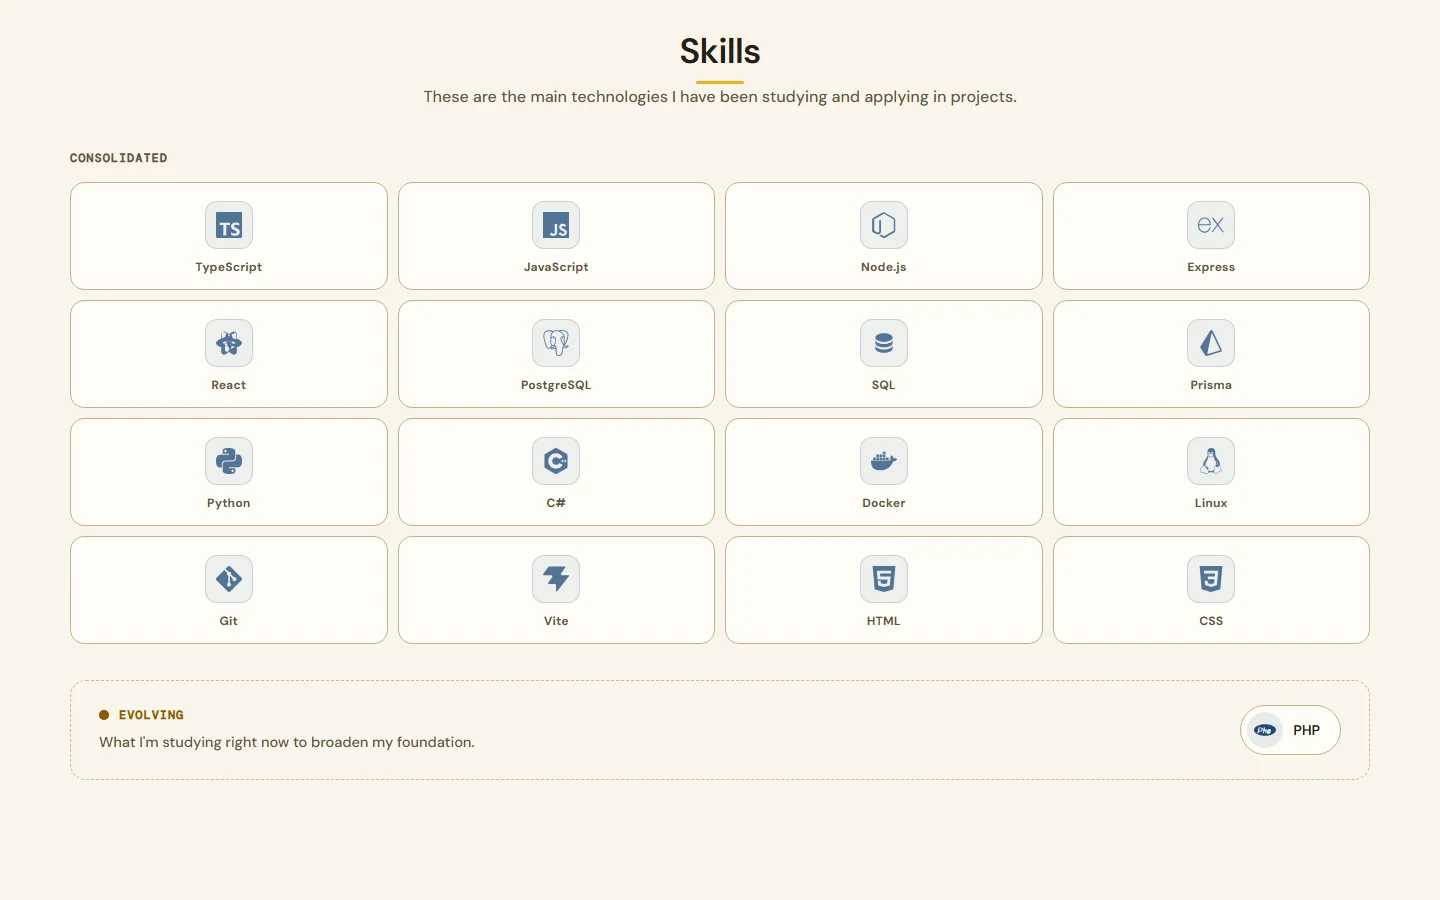
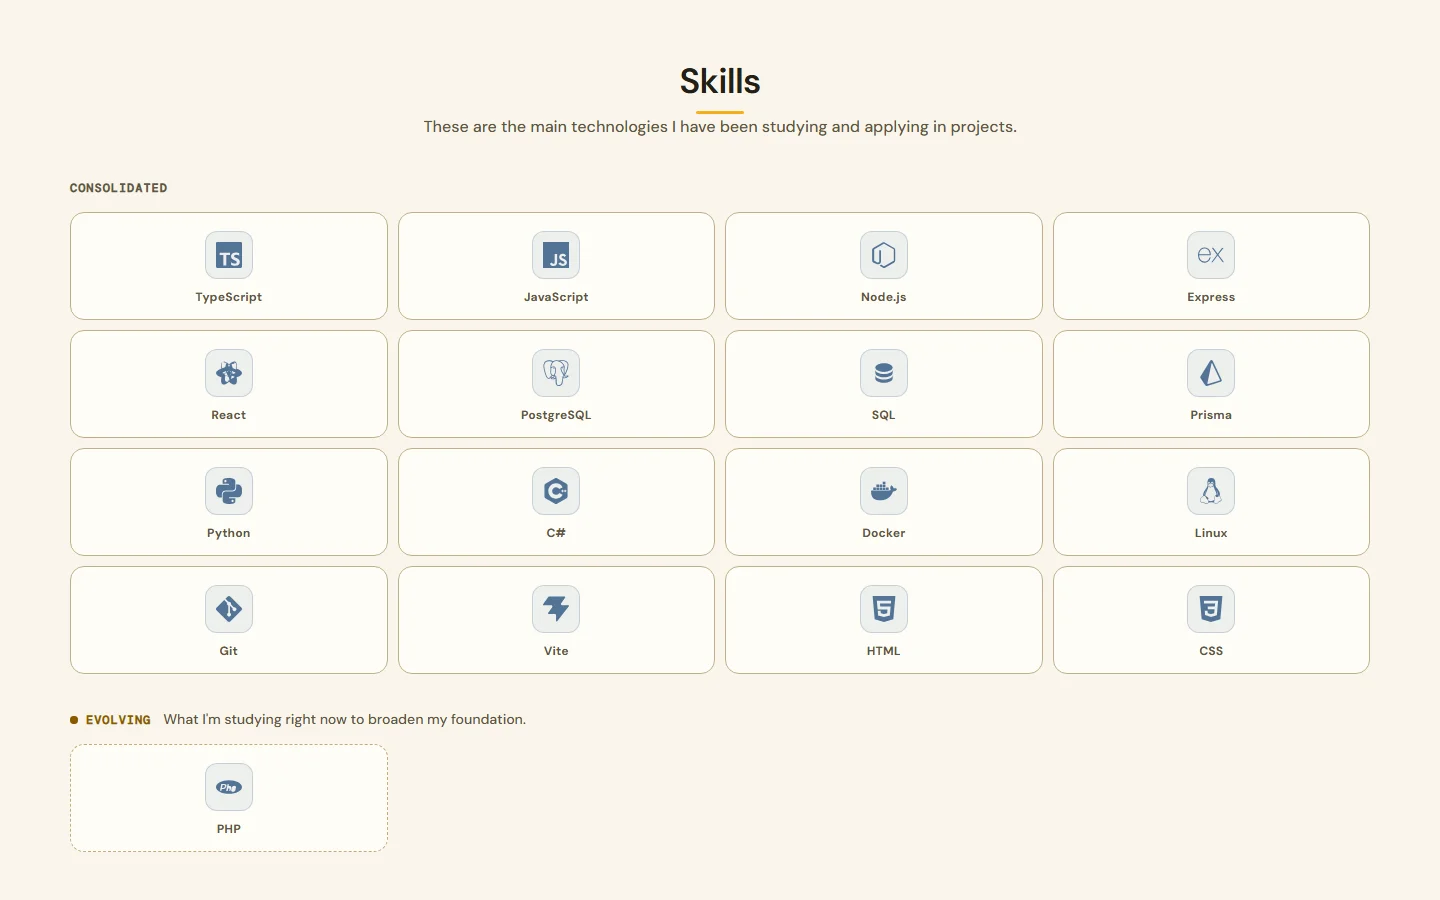
docs(readme): add current role and experience page screenshots
Adds desktop and mobile screenshots of the current role card with the
eduAssets mosaic and of the /experience page, refreshes the skills ones
after the evolving group change, and describes the About and experience
content. Also removes the stale experience dialog mentions and updates the
routes, sitemap count (21), structure and test coverage.

diff --git a/README.md b/README.md
@@ -22,8 +22,16 @@ A multilingual, accessible developer portfolio built with React, TypeScript and 
     <td><img src="docs/screenshots/mobile-projects.webp" alt="Mobile projects section" width="220"></td>
   </tr>
   <tr>
-    <td><img src="docs/screenshots/desktop-skills.webp" alt="Desktop skills section with consolidated technologies and the evolving panel" width="640"></td>
+    <td><img src="docs/screenshots/desktop-skills.webp" alt="Desktop skills section with the consolidated technologies and the evolving group, where PHP is a tile with a dashed outline" width="640"></td>
     <td><img src="docs/screenshots/mobile-skills.webp" alt="Mobile skills section" width="220"></td>
+  </tr>
+  <tr>
+    <td><img src="docs/screenshots/desktop-about-current-role.webp" alt="Current role card in the About section: Technical Support and IT Technician at the São Paulo State Department of Education, with the eduAssets banner and three photos from the school in a mosaic" width="640"></td>
+    <td><img src="docs/screenshots/mobile-about-current-role.webp" alt="Current role card on mobile, with the mosaic below the text" width="220"></td>
+  </tr>
+  <tr>
+    <td><img src="docs/screenshots/desktop-experience.webp" alt="Experience page header with the back link, the title Professional experience, the resume button and the start of the timeline" width="640"></td>
+    <td><img src="docs/screenshots/mobile-experience.webp" alt="Experience page on mobile" width="220"></td>
   </tr>
 </table>
 
@@ -48,12 +56,12 @@ A multilingual, accessible developer portfolio built with React, TypeScript and 
 
 ## Highlights
 
-- **Static output, real routes.** Every page is pre-rendered at build time with React Router (`ssr: false` + `prerender`): the home page and the five project pages, each in English, Portuguese and Spanish, plus a real `404.html`. No runtime server, no client-only shell for crawlers.
-- **Clean, localized URLs.** `/`, `/pt`, `/es` and `/projects/<slug>` under each locale. Language is part of the URL; switching language is a navigation that keeps the page and the scroll position.
-- **Per-page SEO.** Title, description, canonical URL, `hreflang` alternates, Open Graph and Twitter cards, JSON-LD (`ProfilePage` / `Person` / `WebSite` on the home page, `SoftwareSourceCode` / `BreadcrumbList` on project pages), and a `sitemap.xml` generated from the same route data.
+- **Static output, real routes.** Every page is pre-rendered at build time with React Router (`ssr: false` + `prerender`): the home page, the experience page and the five project pages, each in English, Portuguese and Spanish, plus a real `404.html`. No runtime server, no client-only shell for crawlers.
+- **Clean, localized URLs.** `/`, `/pt`, `/es`, plus `/experience` and `/projects/<slug>` under each locale. Language is part of the URL; switching language is a navigation that keeps the page and the scroll position.
+- **Per-page SEO.** Title, description, canonical URL, `hreflang` alternates, Open Graph and Twitter cards, JSON-LD (`ProfilePage` / `Person` / `WebSite` on the home page, `ProfilePage` / `BreadcrumbList` on the experience page, `SoftwareSourceCode` / `BreadcrumbList` on project pages), and a `sitemap.xml` generated from the same route data.
 - **Strict Content-Security-Policy.** Delivered per page as a `<meta>` tag; every inline script is allow-listed by SHA-256 hash computed at build time. No `'unsafe-inline'` or `'unsafe-eval'` for scripts.
 - **No flash of the wrong theme or language.** A tiny synchronous script in `<head>` applies the stored/system theme and sends a first-time visitor at `/` to `/pt` or `/es` before anything paints.
-- **Accessibility.** Dark mode and high-contrast mode (independent), native `<dialog>` for the experience details, keyboard-operable navigation, `prefers-reduced-motion` respected by every animation, automated axe checks on every theme and locale.
+- **Accessibility.** Dark mode and high-contrast mode (independent), keyboard-operable navigation, `prefers-reduced-motion` respected by every animation, automated axe checks on every theme and locale.
 - **Resumes on their own subdomain.** The resume buttons open [cv.dasilva-thiago.dev](https://cv.dasilva-thiago.dev) in the active language: an HTML resume with the same visual identity and a persistent PDF download, instead of a file on a cloud drive. See [Resume site](#resume-site-cvdasilva-thiagodev-1).
 - **Small by design.** About 146 kB of JavaScript (gzip) on first load; animation code is loaded on idle time; icons are tree-shaken data rendered as inline SVG; images are WebP.
 
@@ -61,7 +69,11 @@ A multilingual, accessible developer portfolio built with React, TypeScript and 
 
 ## What the site shows
 
-The home page follows a recruiter's first read: a hero, then projects, skills, about and contact. The hero combines a typewriter that holds the target role longer and highlights it in the theme color, the main stack, the eduAssets figures and remote availability. Skills are split into consolidated technologies and an "evolving" panel for what is being studied, and the resume buttons open the resume for the active language on `cv.dasilva-thiago.dev`.
+The home page follows a recruiter's first read: a hero, then projects, skills, about and contact. The hero combines a typewriter that holds the target role longer and highlights it in the theme color, the main stack, the eduAssets figures and remote availability. Skills are split into consolidated technologies and an "evolving" group for what is being studied, shown as tiles in the same grid with a dashed outline, and the resume buttons open the resume for the active language on `cv.dasilva-thiago.dev`.
+
+**About and experience.** The About section keeps education and experience as compact cards and features the current role in full: IT support at the São Paulo State Department of Education (SEDUC-SP, PROATI), where eduAssets was built. That card shows the eduAssets banner and three photos taken at the school (the dashboard in use, the Raspberry Pi + RFID prototype and the tagged equipment) in a mosaic, and links to the eduAssets project page and to the experience page. Each experience card opens its own section of `/experience`, a timeline with every role's description, main activities, tags, the eduAssets gallery, the Tenaris industrial safety initiative, and the education list.
+
+On the project and experience pages the pill navbar behaves as on the home page: it stays while the top of the page (the project cover or the experience header) is on screen, hides once it scrolls away, and comes back when the pointer reaches the top of the window.
 
 | Project | Type | Main stack | Links |
 |---|---|---|---|
@@ -124,10 +136,10 @@ A lightweight, feature-oriented layout inspired by Feature-Sliced Design. Higher
 ```
 src/
 ├── app/         root document, routes, SEO metadata, analytics, pre-paint script
-├── pages/       route-level compositions (home, project, not-found)
+├── pages/       route-level compositions (home, experience, project, not-found)
 ├── widgets/     page sections: site-nav, hero, about, skills, projects, contact, footer
 ├── features/    user capabilities: switch-language, toggle-appearance, contact-form,
-│                experience-details (dialog), open-cv, locale-entry (first-visit redirect)
+│                open-cv, locale-entry (first-visit redirect)
 ├── entities/    domain data and UI: project, experience, skill
 └── shared/      i18n, config, UI primitives, helpers, styles, assets
 scripts/         build post-processing (CSP hashes, 404 page, sitemap) and its tests
@@ -154,7 +166,7 @@ server/          legacy email API kept in the repository; not part of the static
 ## SEO, security and analytics
 
 - Per-route `meta` exports build title, description, canonical, alternates, social tags and JSON-LD from the locale resources and typed project data (`src/app/seo/`).
-- After the build, `scripts/postbuild.ts` writes `sitemap.xml` (18 URLs with reciprocal `hreflang` alternates), turns the prerendered 404 route into `404.html`, removes the SPA fallback, and injects the Content-Security-Policy meta tag into every HTML file.
+- After the build, `scripts/postbuild.ts` writes `sitemap.xml` (21 URLs with reciprocal `hreflang` alternates), turns the prerendered 404 route into `404.html`, removes the SPA fallback, and injects the Content-Security-Policy meta tag into every HTML file.
 - `vercel.json` adds security headers (`X-Content-Type-Options`, `Referrer-Policy`, `X-Frame-Options`, `Permissions-Policy`), long-lived caching for hashed assets, and `trailingSlash: false`.
 - Google Analytics only activates on the production hostname (so previews and local runs send nothing) and sends one `page_view` per route change.
 
@@ -194,7 +206,7 @@ The resume subdomain is a second Vercel project on the same repository, with **R
 ## Testing
 
 - **Unit/component:** locale parity, typed keys, project data, layer boundaries, contact validation and submission, pre-paint script, CSP builder, sitemap and metadata.
-- **End-to-end:** every route, language switching and redirects, legacy links, theme and contrast, navigation and the mobile drawer, the hero typewriter, the experience dialog, the contact form with a mocked provider, CV links (each locale opens its resume on `cv.dasilva-thiago.dev`), reduced motion, hydration without console warnings, per-page head contents, CSP hashes and zero violations, analytics, 404 behavior, and axe (WCAG 2.0/2.1 A and AA) on home and project pages in light, dark and high-contrast themes for three locales. The same checks run in GitHub Actions on every push and pull request (`.github/workflows/ci.yml`).
+- **End-to-end:** every route, language switching and redirects, legacy links, theme and contrast, navigation and the mobile drawer, the hero typewriter, the featured current role and the experience page (cards open their section, the back link returns to About), the navbar hiding past the top of inner pages, the contact form with a mocked provider, CV links (each locale opens its resume on `cv.dasilva-thiago.dev`), reduced motion, hydration without console warnings, per-page head contents, CSP hashes and zero violations, analytics, 404 behavior, and axe (WCAG 2.0/2.1 A and AA) on home, experience and project pages in light, dark and high-contrast themes for three locales. The same checks run in GitHub Actions on every push and pull request (`.github/workflows/ci.yml`).
 - **Visual and layout tools:** `tests/visual-baseline/` can capture screenshots, compare them against a reference, and measure element geometry.
 
 ---
